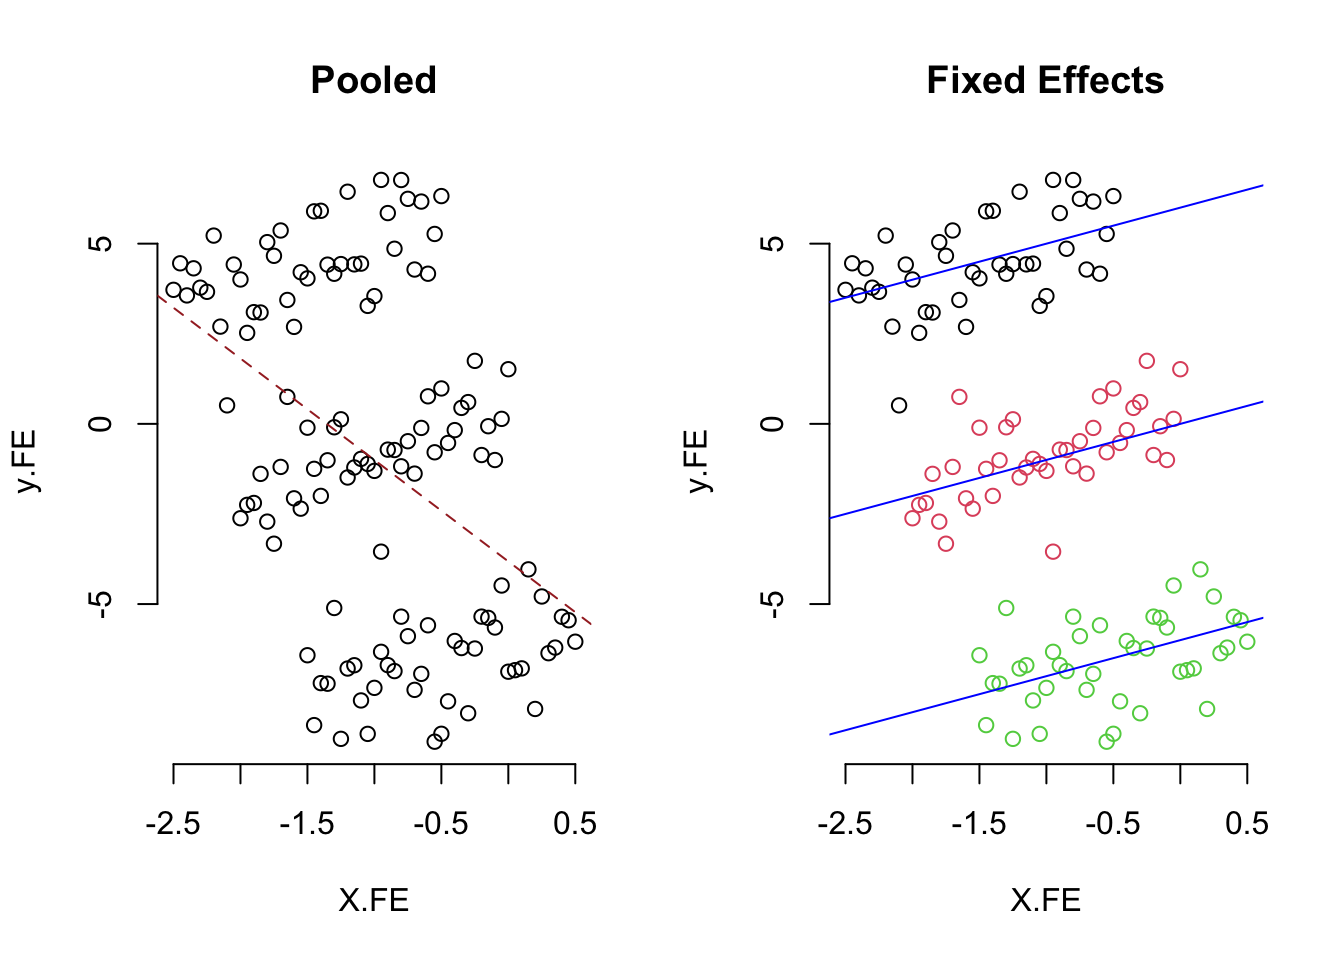
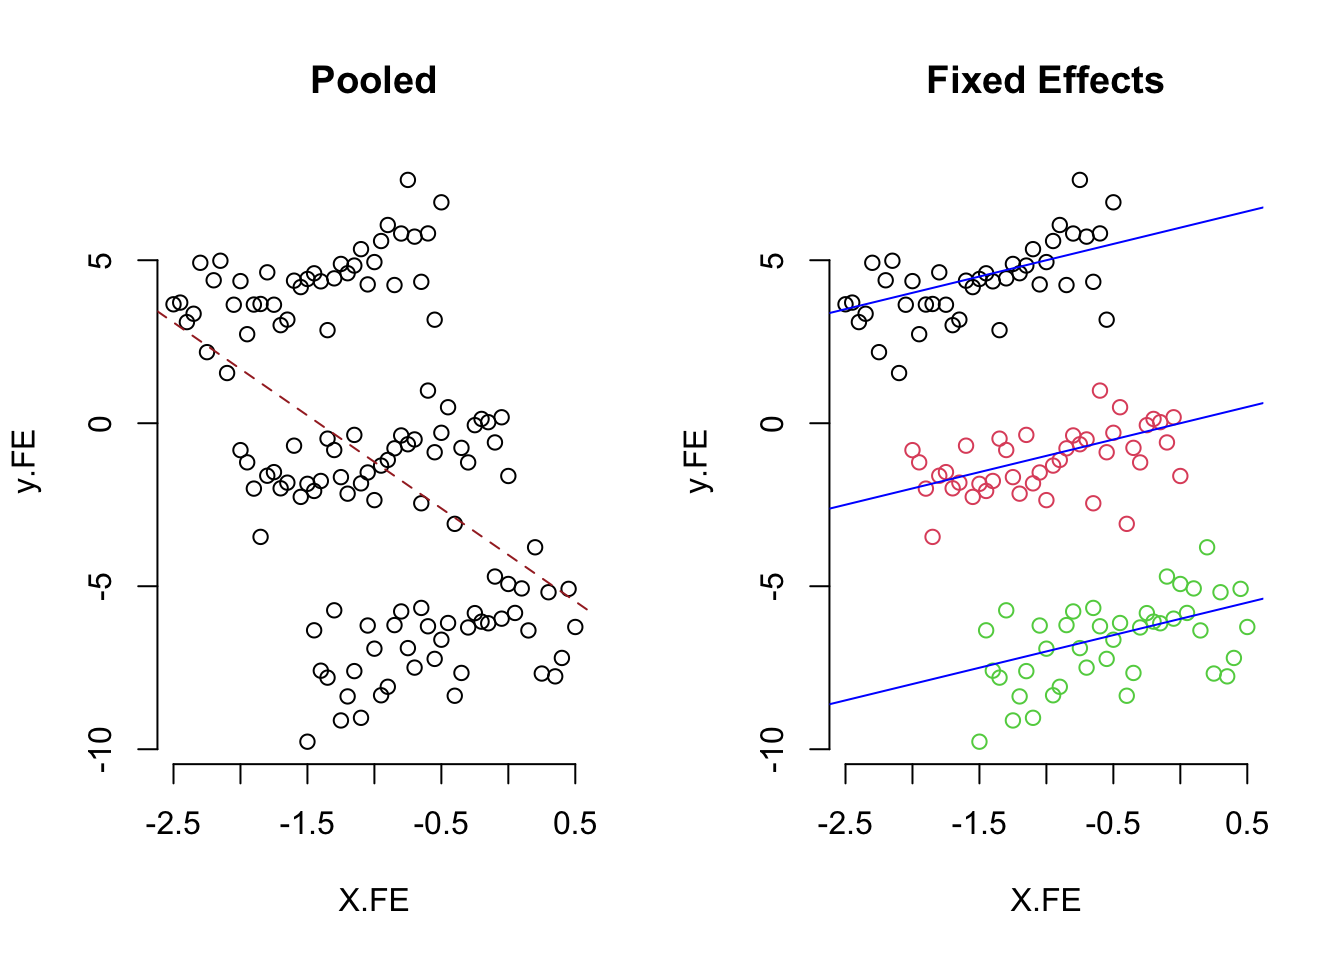
New files

diff --git a/_site/posts/day-6/index.html b/_site/posts/day-6/index.html
@@ -437,44 +437,44 @@ FE
 X.FE
 </td>
 <td>
--2.445<sup>***</sup>
+-2.852<sup>***</sup>
 </td>
 <td>
-1.092<sup>***</sup>
+1.043<sup>***</sup>
 </td>
 <td>
-1.016<sup>***</sup>
+0.968<sup>***</sup>
 </td>
 <td>
-1.094<sup>***</sup>
+1.045<sup>***</sup>
 </td>
 <td>
--2.816<sup>***</sup>
+-2.852<sup>***</sup>
 </td>
 <td>
-1.099<sup>***</sup>
+1.048<sup>***</sup>
 </td>
 </tr>
 <tr>
 <td style="text-align:left">
 </td>
 <td>
-(0.519)
+(0.528)
 </td>
 <td>
-(0.162)
+(0.150)
 </td>
 <td>
-(0.183)
+(0.173)
 </td>
 <td>
-(0.161)
+(0.150)
 </td>
 <td>
-(0.532)
+(0.528)
 </td>
 <td>
-(0.161)
+(0.150)
 </td>
 </tr>
 <tr>
@@ -498,19 +498,19 @@ X.FE
 Constant
 </td>
 <td>
--3.447<sup>***</sup>
+-4.039<sup>***</sup>
 </td>
 <td>
-0.090
+-0.144
 </td>
 <td>
-0.014
+-0.219
 </td>
 <td>
-0.092
+-0.143
 </td>
 <td>
--3.818<sup>***</sup>
+-4.039<sup>***</sup>
 </td>
 <td>
 </td>
@@ -519,19 +519,19 @@ Constant
 <td style="text-align:left">
 </td>
 <td>
-(0.651)
+(0.650)
 </td>
 <td>
-(2.889)
+(2.877)
 </td>
 <td>
-(0.929)
+(0.884)
 </td>
 <td>
-(3.566)
+(3.552)
 </td>
 <td>
-(0.656)
+(0.650)
 </td>
 <td>
 </td>
@@ -584,22 +584,22 @@ Observations
 R<sup>2</sup>
 </td>
 <td>
-0.155
+0.194
 </td>
 <td>
-0.273
+0.285
 </td>
 <td>
-0.202
+0.206
 </td>
 <td>
-0.275
+0.287
 </td>
 <td>
-0.188
+0.194
 </td>
 <td>
-0.280
+0.292
 </td>
 </tr>
 <tr>
@@ -607,22 +607,22 @@ R<sup>2</sup>
 Adjusted R<sup>2</sup>
 </td>
 <td>
-0.148
+0.188
 </td>
 <td>
-0.267
+0.279
 </td>
 <td>
-0.196
+0.200
 </td>
 <td>
-0.269
+0.281
 </td>
 <td>
-0.181
+0.188
 </td>
 <td>
-0.262
+0.274
 </td>
 </tr>
 <tr>
@@ -630,22 +630,22 @@ Adjusted R<sup>2</sup>
 F Statistic
 </td>
 <td>
-22.149<sup>***</sup>
+29.156<sup>***</sup>
 </td>
 <td>
-45.436<sup>***</sup>
+48.135<sup>***</sup>
 </td>
 <td>
-30.723<sup>***</sup>
+31.412<sup>***</sup>
 </td>
 <td>
-46.006<sup>***</sup>
+48.722<sup>***</sup>
 </td>
 <td>
-27.971<sup>***</sup> (df = 1; 121)
+29.156<sup>***</sup> (df = 1; 121)
 </td>
 <td>
-46.314<sup>***</sup> (df = 1; 119)
+49.015<sup>***</sup> (df = 1; 119)
 </td>
 </tr>
 <tr>

diff --git a/_site/index.html b/_site/index.html
@@ -418,7 +418,7 @@ Robert W. Walker
 </a>
 </div>
 </div>
-<div class="quarto-post image-right" data-index="4" data-categories="panel data,code,analysis" data-listing-date-sort="1660546800000" data-listing-file-modified-sort="1659802672713" data-listing-reading-time-sort="1.31">
+<div class="quarto-post image-right" data-index="4" data-categories="panel data,code,analysis" data-listing-date-sort="1660546800000" data-listing-file-modified-sort="1659804726430" data-listing-reading-time-sort="1.31">
 <div class="thumbnail">
 <p><a href="./posts/day-6/index.html"> <img src="./posts/day-6/image.png" class="thumnail-image"> </a></p>
 </div>
